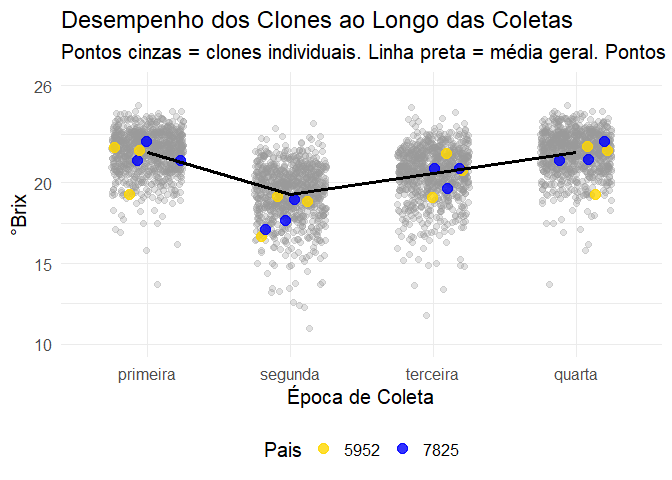
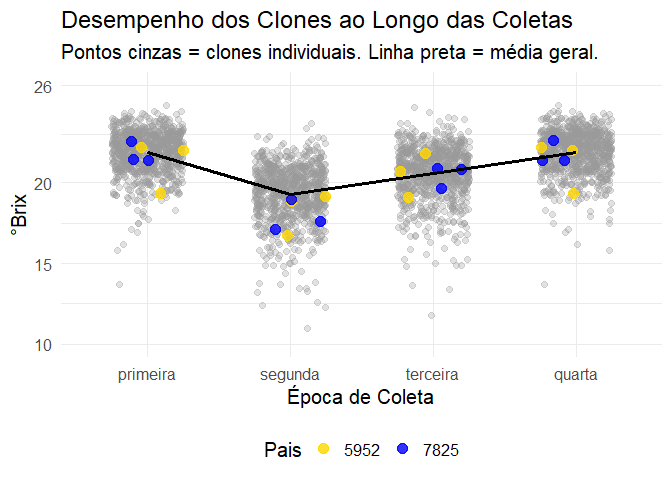
mudando legenda do grafico

diff --git a/README.md b/README.md
@@ -72,7 +72,7 @@ grafico_dispersao <- ggplot(mapping = aes(x = coleta, y = brix)) +
   ) +
   labs(
     title = "Desempenho dos Clones ao Longo das Coletas",
-    subtitle = "Pontos cinzas = clones individuais. Linha preta = média geral. Pontos coloridos = pais.",
+    subtitle = "Pontos cinzas = clones individuais. Linha preta = média geral.",
     x = "Época de Coleta",
     y = "°Brix",
     color = "Pais"
